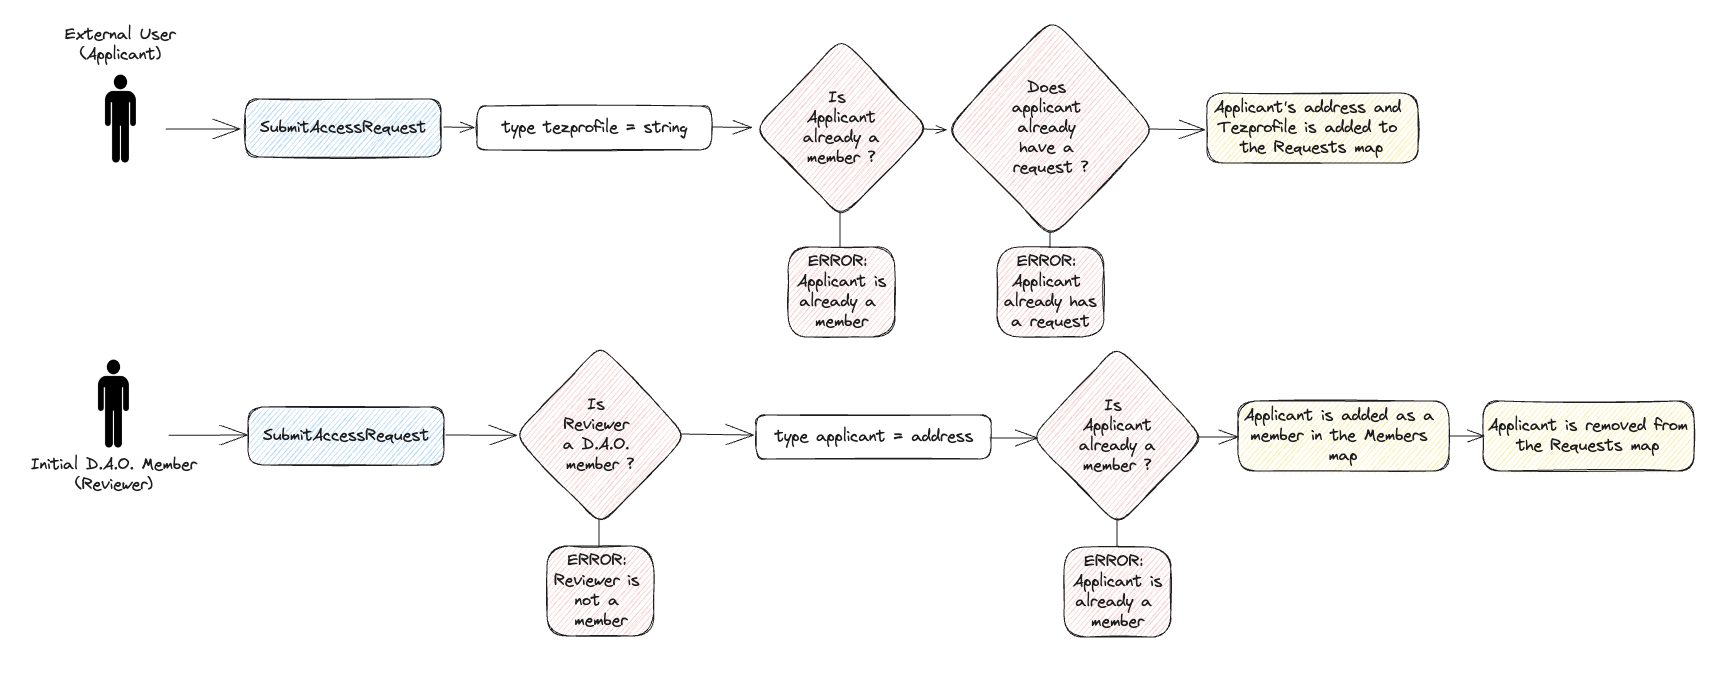
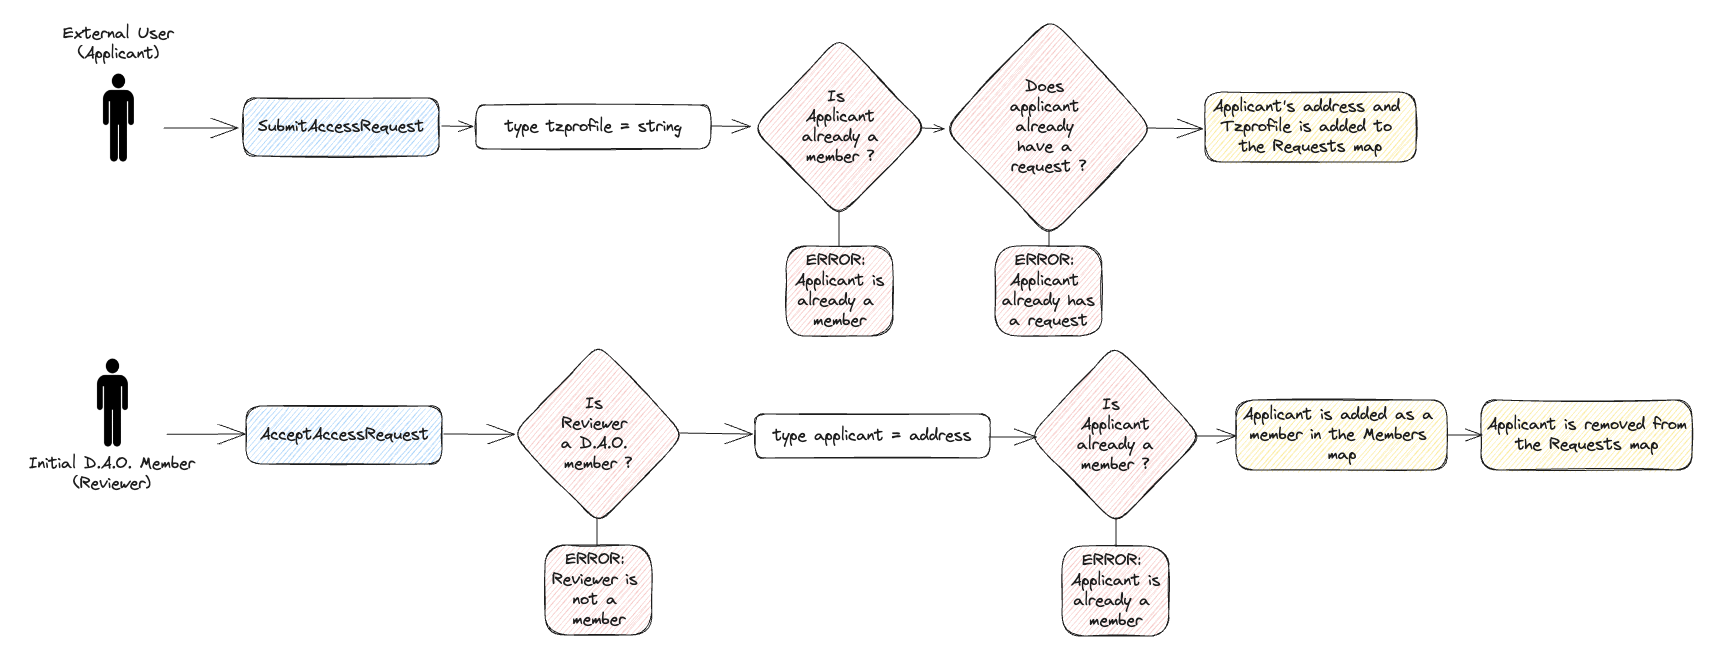
Removed some typos

diff --git a/docs/specification.md b/docs/specification.md
@@ -16,26 +16,26 @@ uncovered.
 
 ## D.I.D. Whitelist
 
-The D.A.O. uses a whitelist system to invite members to the ecosystem.
+The D.A.O. uses a whitelist system to invite members to the dApp.
 An initial map of `members` must be specified at the origination of the contract.
 
 An external user of the D.A.O. must then :
 - submit an access request by calling the entrypoint `SubmitAccessRequest`
 - wait for an already existing member to accept their request, 
-    by them calling the entrypoint`AcceptAccessRequest`
+    by calling the entrypoint`AcceptAccessRequest`
 
 Each request and each member have a `string` value attached to their address.
-This allows for user to attach either their [Tezprofile](https://tzprofiles.com/) address, 
+This allows for user to attach either their [Tzprofile](https://tzprofiles.com/) address, 
 or the URL pointing to a post on their social profile, or a Gist that states 
 they are the rightful owners of the specified address.
 
 ![access_request](./images/flow_access_request.png)
 
 > [!NOTE]
-> Unfortunately, the [Tezprofile](https://tzprofiles.com/) project does not offer 
-> any on-chain registry allowing the D.A.O. to have a truly deventralized checking process.
-> Since there are no on-chian view or callbacks that can be used to check 
-> the applicants profiles, we decided to leave the `tezprofile` field as 
+> Unfortunately, the [Tzprofile](https://tzprofiles.com/) project does not offer 
+> any on-chain registry allowing the D.A.O. to have a truly decentralized checking process.
+> Since there are no on-chain view or callbacks that can be used to check 
+> the applicants' profiles, we decided to leave the `tzprofile` field as 
 > a generic `string` to allow applicants to attach other means to justify 
 > their identities.
 
@@ -48,7 +48,7 @@ in the configuration at `s = 1 000 000`, and this value is added to the user
 locked tokens for this vote `x`, resulting in a final token score `X = s + x`.
 
 - Each user has a reputation score. The base reputation score is initialised in 
-the configuration at `b = 10` for smoothing purpose.  At each succesfull vote, 
+the configuration at `b = 10` for smoothing purpose.  At each successful vote, 
 each user is rewarded one cumulative reputation point in a counter `y`, 
 resulting in a final reputation score `Y = b + y`.
 

diff --git a/README.md b/README.md
@@ -58,7 +58,7 @@ You can get a LIGO binary for `v0.70.1` [here](https://gitlab.com/ligolang/ligo/
 
 The D.A.O. uses an anti-whale voting system, working as follows :
 - Each user has a token score. For each vote, the base token score is initialised in the configuration at `s = 1 000 000` for smoothing purpose, and this value is added to the user locked tokens for this vote `x`, resulting in a final token score `X = s + x`.
-- Each user has a reputation score. The base reputation score is initialised in the configuration at `b = 10` for smoothing purpose.  At each succesfull vote, each user is rewarded one cumulative reputation point in a counter `y`, resulting in a final reputation score `Y = b + y`.
+- Each user has a reputation score. The base reputation score is initialised in the configuration at `b = 10` for smoothing purpose.  At each successful vote, each user is rewarded one cumulative reputation point in a counter `y`, resulting in a final reputation score `Y = b + y`.
 - Each user has a fidelity score. The base fidelity score is initialised in the configuration at `t = 31 536 000` for smoothing purpose. At each lock, we note the timestamp, and calculate at each vote the total lock time `z` in seconds. Note that locking and releasing multiple times cumulate your lock time.  resulting in a final fidelity score `Z = t + z`.
 
 The final voting weight power `V` for each user is `V = X * Y * Z`
